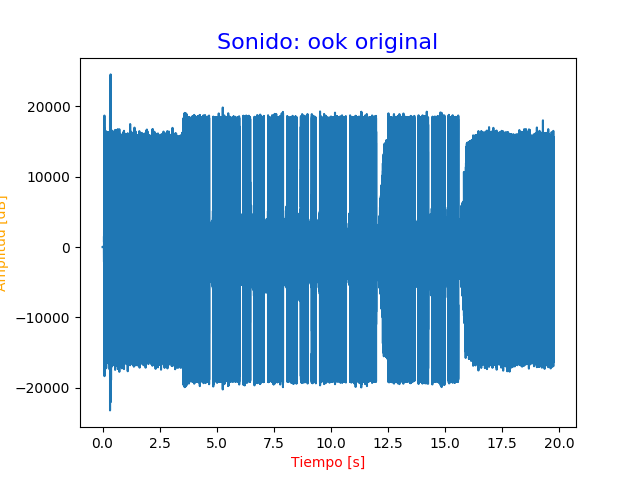
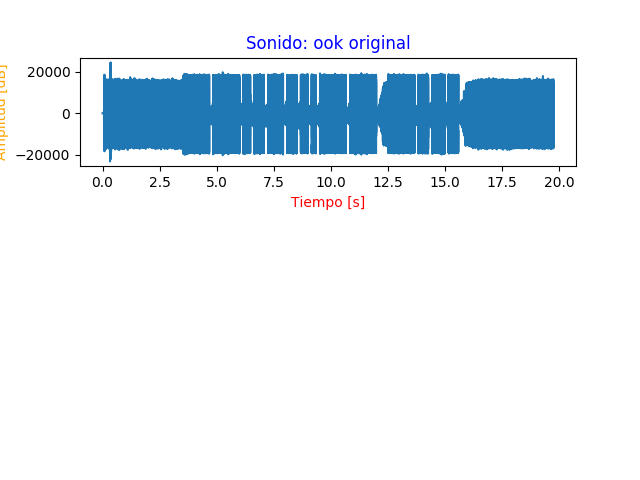
adding new graphics

diff --git a/Models/graphic.py b/Models/graphic.py
@@ -23,12 +23,11 @@ class Graphic:
     # - OUT:
 
     def makeGraphic(self, title, xlabel, xdata, ylabel, ydata):
-        plt.title(title, fontsize = 16, color = 'blue')
+        plt.title(title, fontsize = 12, color = 'blue')
         plt.xlabel(xlabel, color = 'red')
         plt.ylabel(ylabel, color = 'orange')
         plt.plot(xdata, ydata)
         plt.savefig( os.getcwd()+ "/Salida/" + title + ".png")
-        return
 
     #//////////////////////////////////////////////////////////////////////////////////////////////////////////////////////////////////////////////////////////////////////////
     # - NAME: timeGraphic
@@ -39,8 +38,6 @@ class Graphic:
     def timeGraphic(self, data, duration, audioName):
         t = linspace(0, duration, len(data))
         self.makeGraphic("Sonido: " + audioName + " original", "Tiempo [s]", t, "Amplitud [dB]", data)
-        plt.show()
-        return
 
     #///////////////////////////////////////////////////////////////////////////////////////////////////////////////////////////////////////////////////////////////////////////
     # - NAME: frequencyGraphic
@@ -55,7 +52,6 @@ class Graphic:
         # Funcion que retorna los resultados aplicando fourier y crea una matriz con el resultado
         fftFrequency = np.fft.fftfreq(sample_length, 1 / samplingRate)
         self.makeGraphic("Sonido: " + audioName + " aplicando T.Fourier", "Frecuencia [Hz]", fftFrequency, "Amplitud [dB]", abs(new_data))
-        plt.show()
         return new_data, fft(data)
 
     # /////////////////////////////////////////////////////////////////////////////////////////////////////////////////////////////////////////////////////////////////////////
@@ -70,7 +66,6 @@ class Graphic:
         new_data = fft(y) / sample_length
         fftFrequency = np.fft.fftfreq(sample_length, 1 / audio.sampling_rate)
         self.makeGraphic("Sonido: " + audio.audio_name + " aplicando T.Fourier (Paso Banda)", "Frecuencia [Hz]", abs(fftFrequency), "Amplitud [dB]", abs(new_data))
-        plt.show()
         return new_data, fft(y)
 
     # /////////////////////////////////////////////////////////////////////////////////////////////////////////////////////////////////////////////////////////////////////////
@@ -85,7 +80,6 @@ class Graphic:
         new_data = fft(y) / sample_length
         fftFrequency = np.fft.fftfreq(sample_length, 1 / audio.sampling_rate)
         self.makeGraphic("Sonido: " + audio.audio_name + " aplicando T.Fourier (Paso Bajo)", "Frecuencia [Hz]", abs(fftFrequency), "Amplitud [dB]", abs(new_data))
-        plt.show()
         return new_data, fft(y)
 
     #//////////////////////////////////////////////////////////////////////////////////////////////////////////////////////////////////////////////////////////////////////////
@@ -96,12 +90,10 @@ class Graphic:
 
     def spectrogramGraphic(self, audio):
         plt.specgram(audio.data_array, NFFT=1024, Fs=audio.sampling_rate)
-        plt.xlabel('Tiempo[s]')
-        plt.ylabel('Frecuencia[Hz]')
-        plt.title(audio.audio_name, fontsize=16, color='blue')
+        plt.xlabel('Tiempo[s]',color = 'red')
+        plt.ylabel('Frecuencia[Hz]',color = 'orange')
+        plt.title("Espectograma de audio "+audio.audio_name, fontsize=12, color='blue')
         plt.savefig(os.getcwd() + "/Salida/" + audio.audio_name + "-spectrogram.png")
-        plt.show()
-        return
 
     # //////////////////////////////////////////////////////////////////////////////////////////////////////////////////////////////////////////////////////////////////////////
     # - NAME: spectrogramGraphic
@@ -112,12 +104,10 @@ class Graphic:
     def filteredSpectrogramGraphic(self, audio, cutoff, order):
         y = audio.butterLowpassFilter(audio.data_array, cutoff, audio.sampling_rate, order)
         plt.specgram(y, NFFT=1024, Fs=audio.sampling_rate)
-        plt.xlabel('Tiempo[s]')
-        plt.ylabel('Frecuencia[Hz]')
-        plt.title(audio.audio_name, fontsize=16, color='blue')
-        plt.savefig(os.getcwd() + "/Salida/" + audio.audio_name + "-spectrogram.png")
-        plt.show()
-        return
+        plt.xlabel('Tiempo[s]',color = 'red')
+        plt.ylabel('Frecuencia[Hz]',color = 'orange')
+        plt.title("Espectograma aplicando tranformada de audio: "+ audio.audio_name, fontsize=12, color='blue')
+        plt.savefig(os.getcwd() + "/Salida/" + audio.audio_name + "-spectrogramFiltrado.png")
 
     # /////////////////////////////////////////////////////////////////////////////////////////////////////////////////////////////////////////////////////////////////////////
     # - NAME: inverseGraphic
@@ -130,8 +120,68 @@ class Graphic:
         iFourier = ifft(fourierT)
         newtime = linspace(0,timp,len(iFourier))
         self.makeGraphic("Sonido: "+audioName+" aplicando TF. Inversa","Tiempo [s]",newtime,"Amplitud [dB]", iFourier)
+        plt.savefig(os.getcwd() + "/Salida/" + audioName + "-AudioRetornado.png")
+
+    # /////////////////////////////////////////////////////////////////////////////////////////////////////////////////////////////////////////////////////////////////////////
+    # - NAME: createGraphics
+    # - DESCRIPTION: Genera todos los graficos de manera conjunta
+    # - PARAMS:
+    # - OUT:
+
+    def generateGraphics1 (self, originalAudio, low_cutoff, order,title):
+        plt.figure(1)
+        plt.subplot(311)
+        self.timeGraphic(originalAudio.data_array, originalAudio.duration, originalAudio.audio_name)
+        plt.subplot(312)
+        originalAudio.informationNumpyFourier, fourierT = self.frequencyGraphic(originalAudio.data_array,originalAudio.sampling_rate,originalAudio.audio_name)
+        plt.subplot(313)
+        self.lowpassFilteredGraphic(originalAudio, low_cutoff, order)
+        plt.tight_layout()
+        plt.savefig(os.getcwd() + "/Salida/" + title + ".png")
         plt.show()
-        return
+
+    # /////////////////////////////////////////////////////////////////////////////////////////////////////////////////////////////////////////////////////////////////////////
+    # - NAME: createGraphics
+    # - DESCRIPTION: Genera todos los graficos de manera conjunta
+    # - PARAMS:
+    # - OUT:
+
+    def generateGraphics2 (self, originalAudio,title):
+        plt.figure(1)
+        plt.subplot(311)
+        #plt.title("Sonido Original")
+        self.timeGraphic(originalAudio.data_array, originalAudio.duration, originalAudio.audio_name)
+        plt.subplot(312)
+        #plt.title("Sonido aplicadando transformada")
+        originalAudio.informationNumpyFourier, fourierT = self.frequencyGraphic(originalAudio.data_array,originalAudio.sampling_rate,originalAudio.audio_name)
+        plt.subplot(313)
+        #plt.title("Espectograma")
+        self.spectrogramGraphic(originalAudio)
+        plt.tight_layout()
+        plt.savefig(os.getcwd() + "/Salida/" + title + ".png")
+        plt.show()
+        return fourierT
+
+    # /////////////////////////////////////////////////////////////////////////////////////////////////////////////////////////////////////////////////////////////////////////
+    # - NAME: createGraphics
+    # - DESCRIPTION: Genera todos los graficos de manera conjunta
+    # - PARAMS:
+    # - OUT:
+
+    def generateGraphics3 (self, originalAudio, low_cutoff, order,fourierT,title):
+        plt.figure(1)
+        plt.subplot(311)
+        p1 = plt.plot(linewidth = 2)
+        self.timeGraphic(originalAudio.data_array, originalAudio.duration, originalAudio.audio_name)
+        plt.subplot(312)
+        p2 = plt.plot(linewidth = 2)
+        self.filteredSpectrogramGraphic(originalAudio, low_cutoff, order)
+        plt.subplot(313)
+        p3 = plt.plot(linewidth = 2)
+        self.inverseGraphic(originalAudio.sampling_rate, fourierT, originalAudio.audio_name)
+        plt.tight_layout()
+        plt.savefig(os.getcwd() + "/Salida/" + title + ".png")
+        plt.show()
 
     # /////////////////////////////////////////////////////////////////////////////////////////////////////////////////////////////////////////////////////////////////////////
     # - NAME: createGraphics
@@ -140,13 +190,11 @@ class Graphic:
     # - OUT:
 
     def createGraphics(self, originalAudio, low_cutoff, high_cutoff, order):
-        self.timeGraphic(originalAudio.data_array, originalAudio.duration, originalAudio.audio_name)
-        originalAudio.informationNumpyFourier, fourierT = self.frequencyGraphic(originalAudio.data_array, originalAudio.sampling_rate, originalAudio.audio_name)
-        self.lowpassFilteredGraphic(originalAudio, low_cutoff, order)
-        #self.bandpassFilteredGraphic(originalAudio, low_cutoff, high_cutoff, order)
-        self.spectrogramGraphic(originalAudio)
-        self.filteredSpectrogramGraphic(originalAudio, low_cutoff, order)
-        self.inverseGraphic(originalAudio.sampling_rate, fourierT, originalAudio.audio_name)
-        return
+
+        self.generateGraphics1(originalAudio,low_cutoff,order,"Conjunto_1")
+
+        fourierT = self.generateGraphics2(originalAudio,"Conjunto_2")
+
+        self.generateGraphics3(originalAudio,low_cutoff,order,fourierT,"Conjunto_3")
 
     # /////////////////////////////////////////////////////////////////////////////////////////////////////////////////////////////////////////////////////////////////////////
